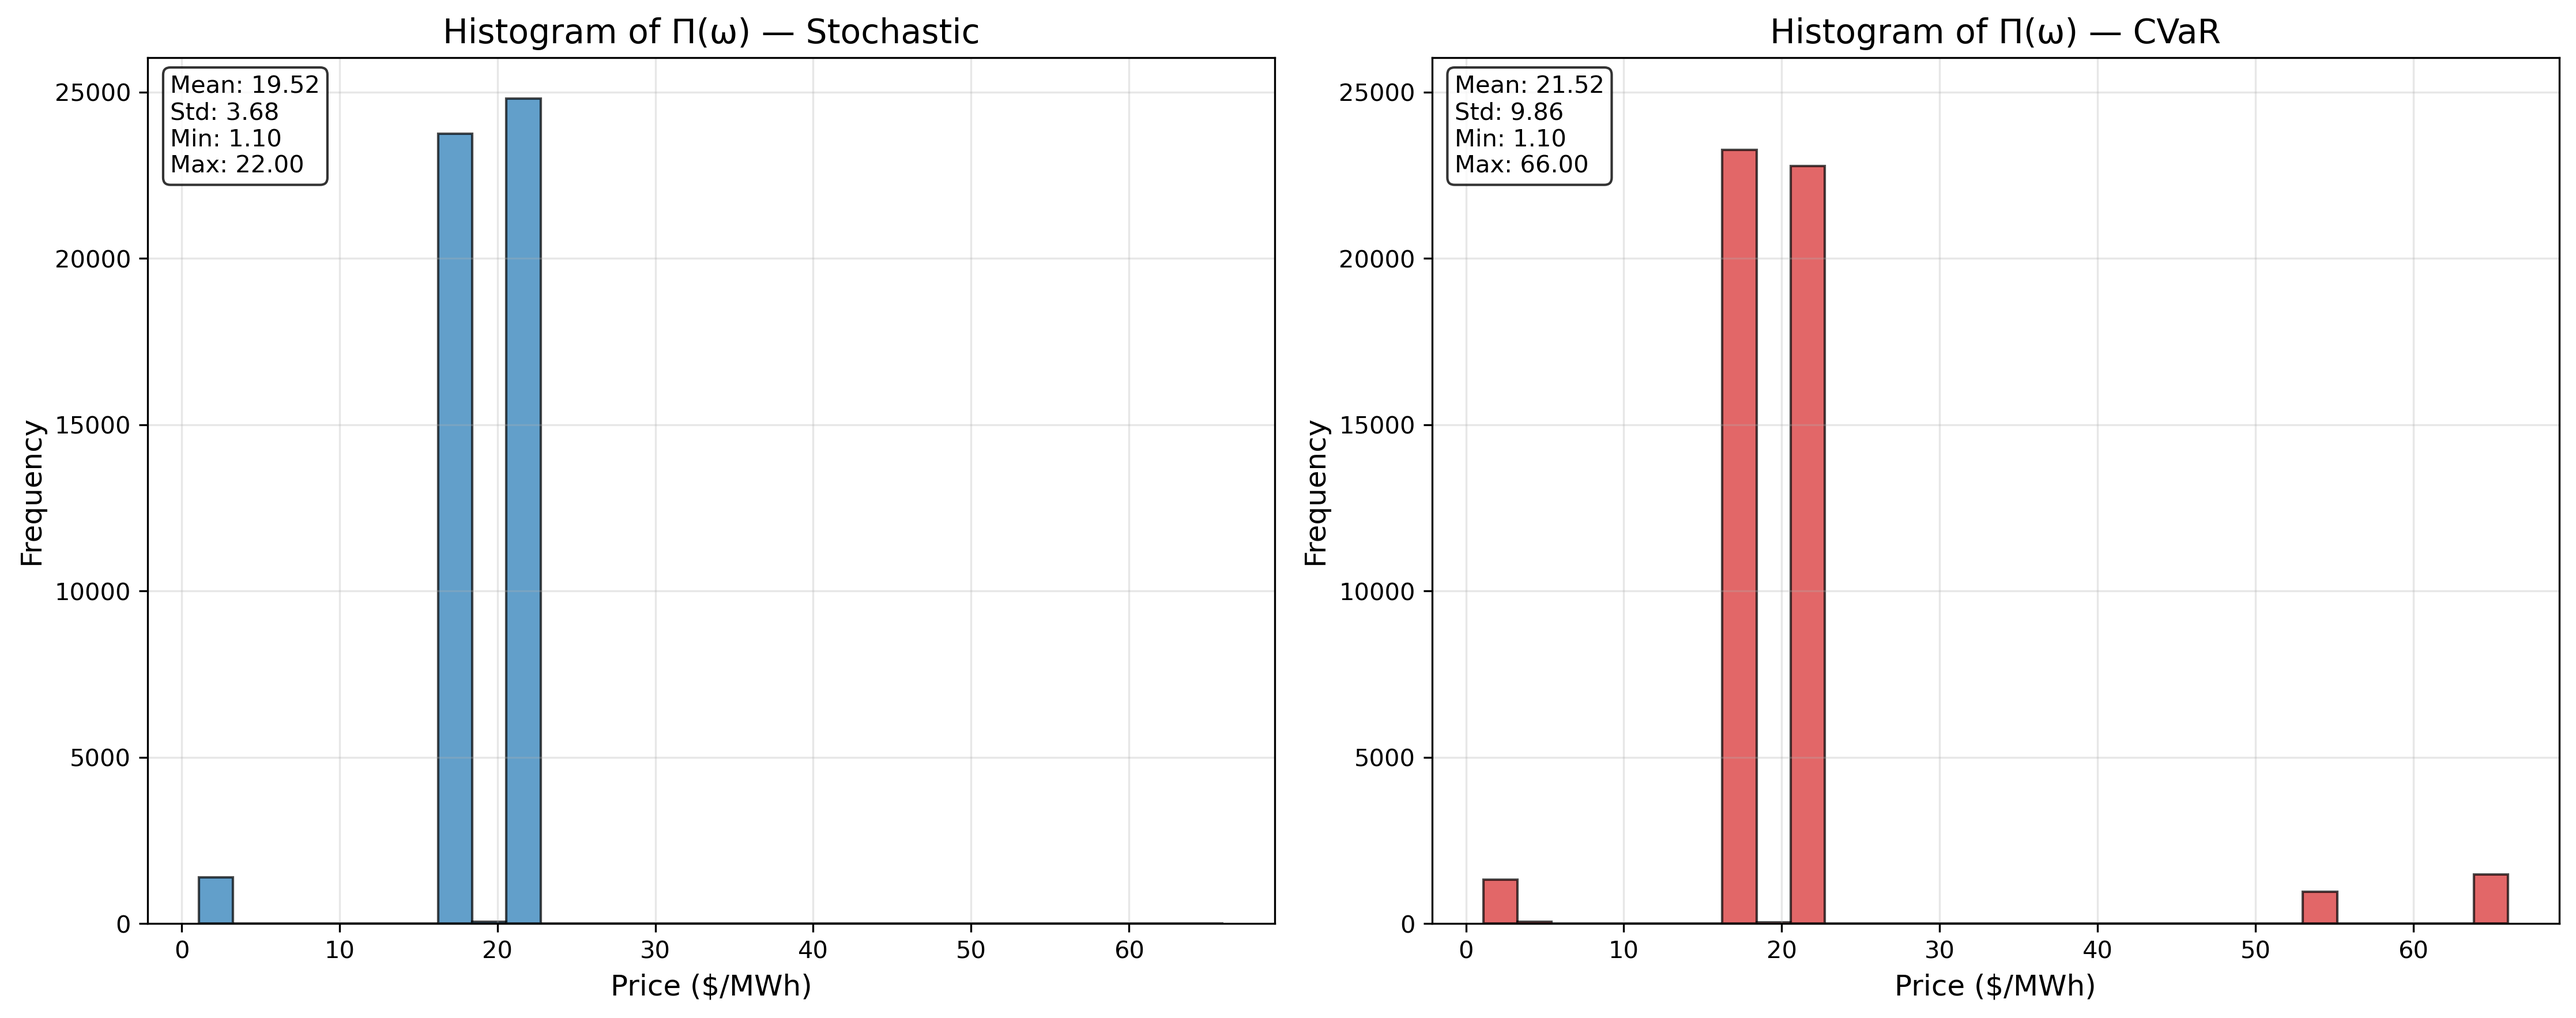
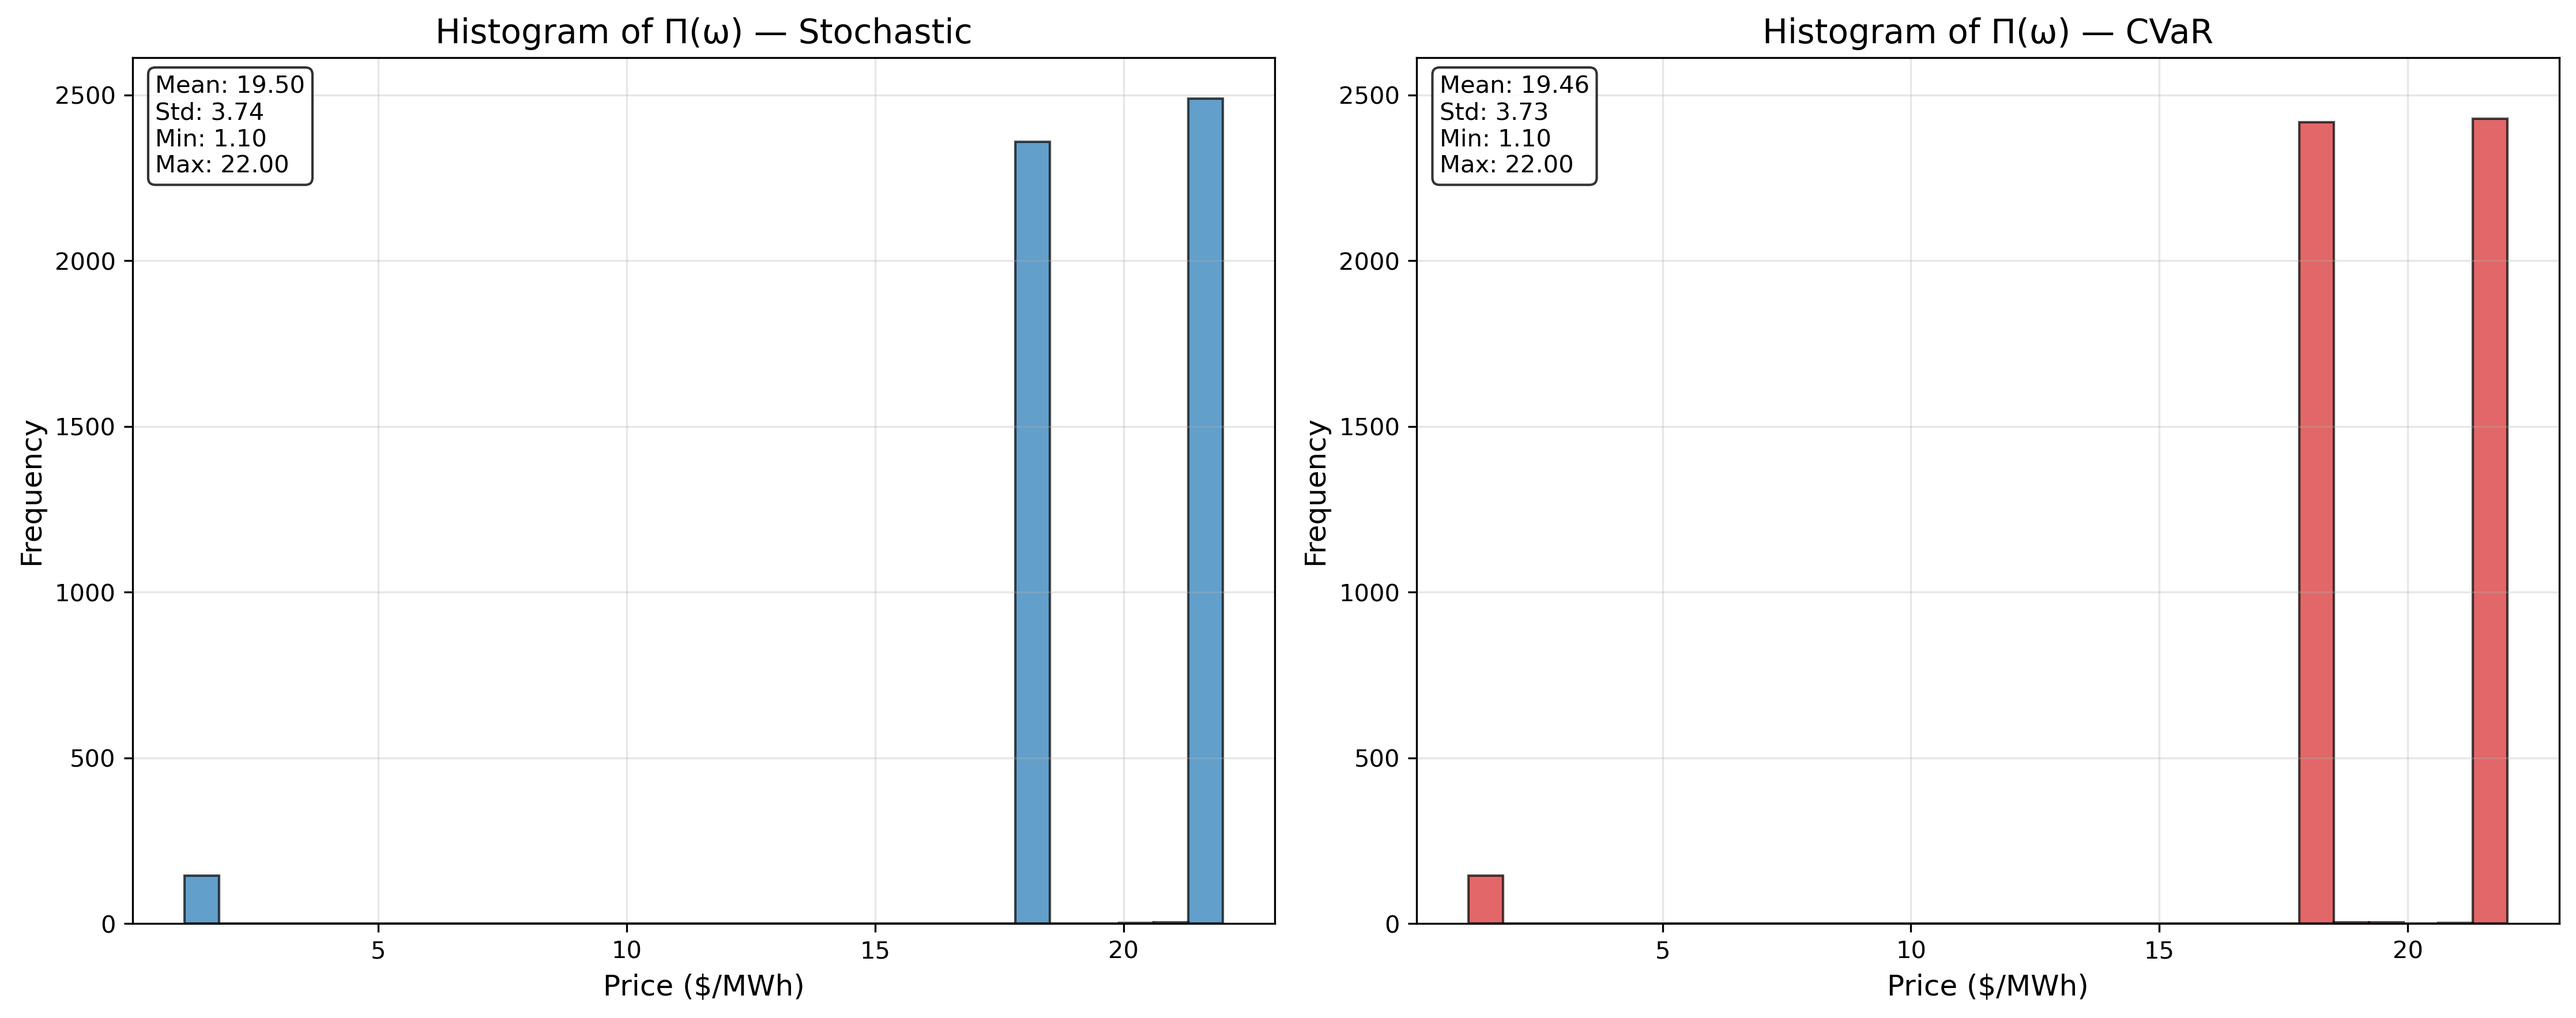
Added cvar link dual in denominator for calculation of cvar price

diff --git a/run_zavala.py b/run_zavala.py
@@ -32,7 +32,7 @@ from plot_visualization import (
 # =========================
 # Run Zavala baseline (stochastic) + deterministic + CVaR
 # =========================
-num_instances = 100
+num_instances = 10
 key = random.key(200)
 keys = random.split(key, num_instances)
 instances = []
@@ -182,6 +182,11 @@ print(f"CVaR Tail welfare = {np.mean(cvar_tail_welfare)}")
 
 print(f"Deterministic Tail distortions = {np.mean(det_tail_distortions)}")
 print(f"Deterministic Tail welfare = {np.mean(det_tail_welfare)}")
+
+print("######################## Prices #############################################")
+print(f"Mean Real-time prices (Stoch) = {np.mean(z_Pi)}")
+print(f"Mean Real-time prices (CVaR) = {np.mean(cvar_Pi)}")
+print(f"Mean Real-time prices (deterministic) = {np.mean(Pi_det)}")
 
 # Compare committed vs real-time prices
 print(f"Day-ahead prices (Stoch) = {z_pi}")

diff --git a/zavala_funcs.py b/zavala_funcs.py
@@ -879,7 +879,7 @@ def zavala_cvar(probs, mc_g_i, mv_d_j, g_i_bar, d_j_bar):
     G_i_jax = jnp.array([[G_i[p][i].value for i in range(num_g)] for p in range(len(probs))])
     D_j_jax = jnp.array([[D_j[p][j].value for j in range(num_d)] for p in range(len(probs))])
     pi = day_ahead_balance[0].dual_value
-    Pi = jnp.array([real_time_balance[p].dual_value / probs[p] for p in range(len(probs))])
+    Pi = jnp.array([real_time_balance[p].dual_value / (probs[p] + cvar_link[p].dual_value) for p in range(len(probs))])
     cvar_link_dual = jnp.array([float(np.asarray(c.dual_value).ravel()[0]) if c.dual_value is not None else np.nan for c in cvar_link])
 
     return g_i_jax, d_j_jax, G_i_jax, D_j_jax, pi, Pi, cvar_link_dual
